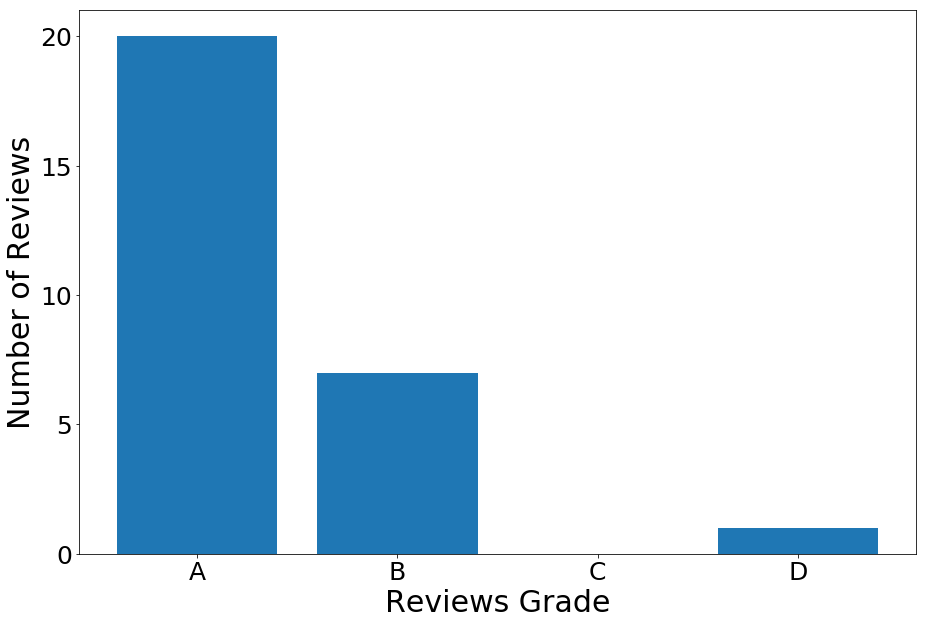
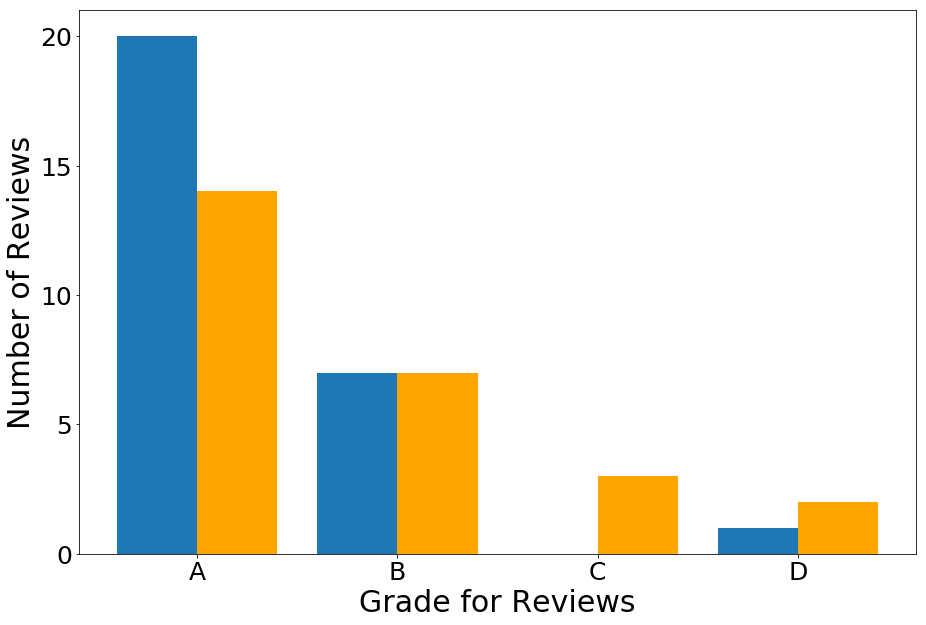
Updates made

diff --git a/_projects/2017-08-25-amazon-reviews.md b/_projects/2017-08-25-amazon-reviews.md
@@ -115,7 +115,7 @@ https://www.amazon.com/gp/profile/amzn1.account.AEPL3VBEKQBLHUBGKX76BG72MZEQ
 
 [Fakespot.com](http://fakespot.com/) is a website that uses reviews and reviewers from Amazon products that were known to have purchased fake reviews for their proprietary models to predict whether a new product has fake reviews.  They rate the products by grade letter, saying that if 90% or more of the reviews are good quality it's an A, 80% or more is a B, etc.  
 
-Here is the grade distribution for the products I found had 50% low-quality reviews or more.
+Here is the grade distribution for the products I found had 50% low-quality reviews or more (28 products total).
 
 <p align="center">
 <img src="/public/img/amazon/Review_Grades.png?raw=true"/>
